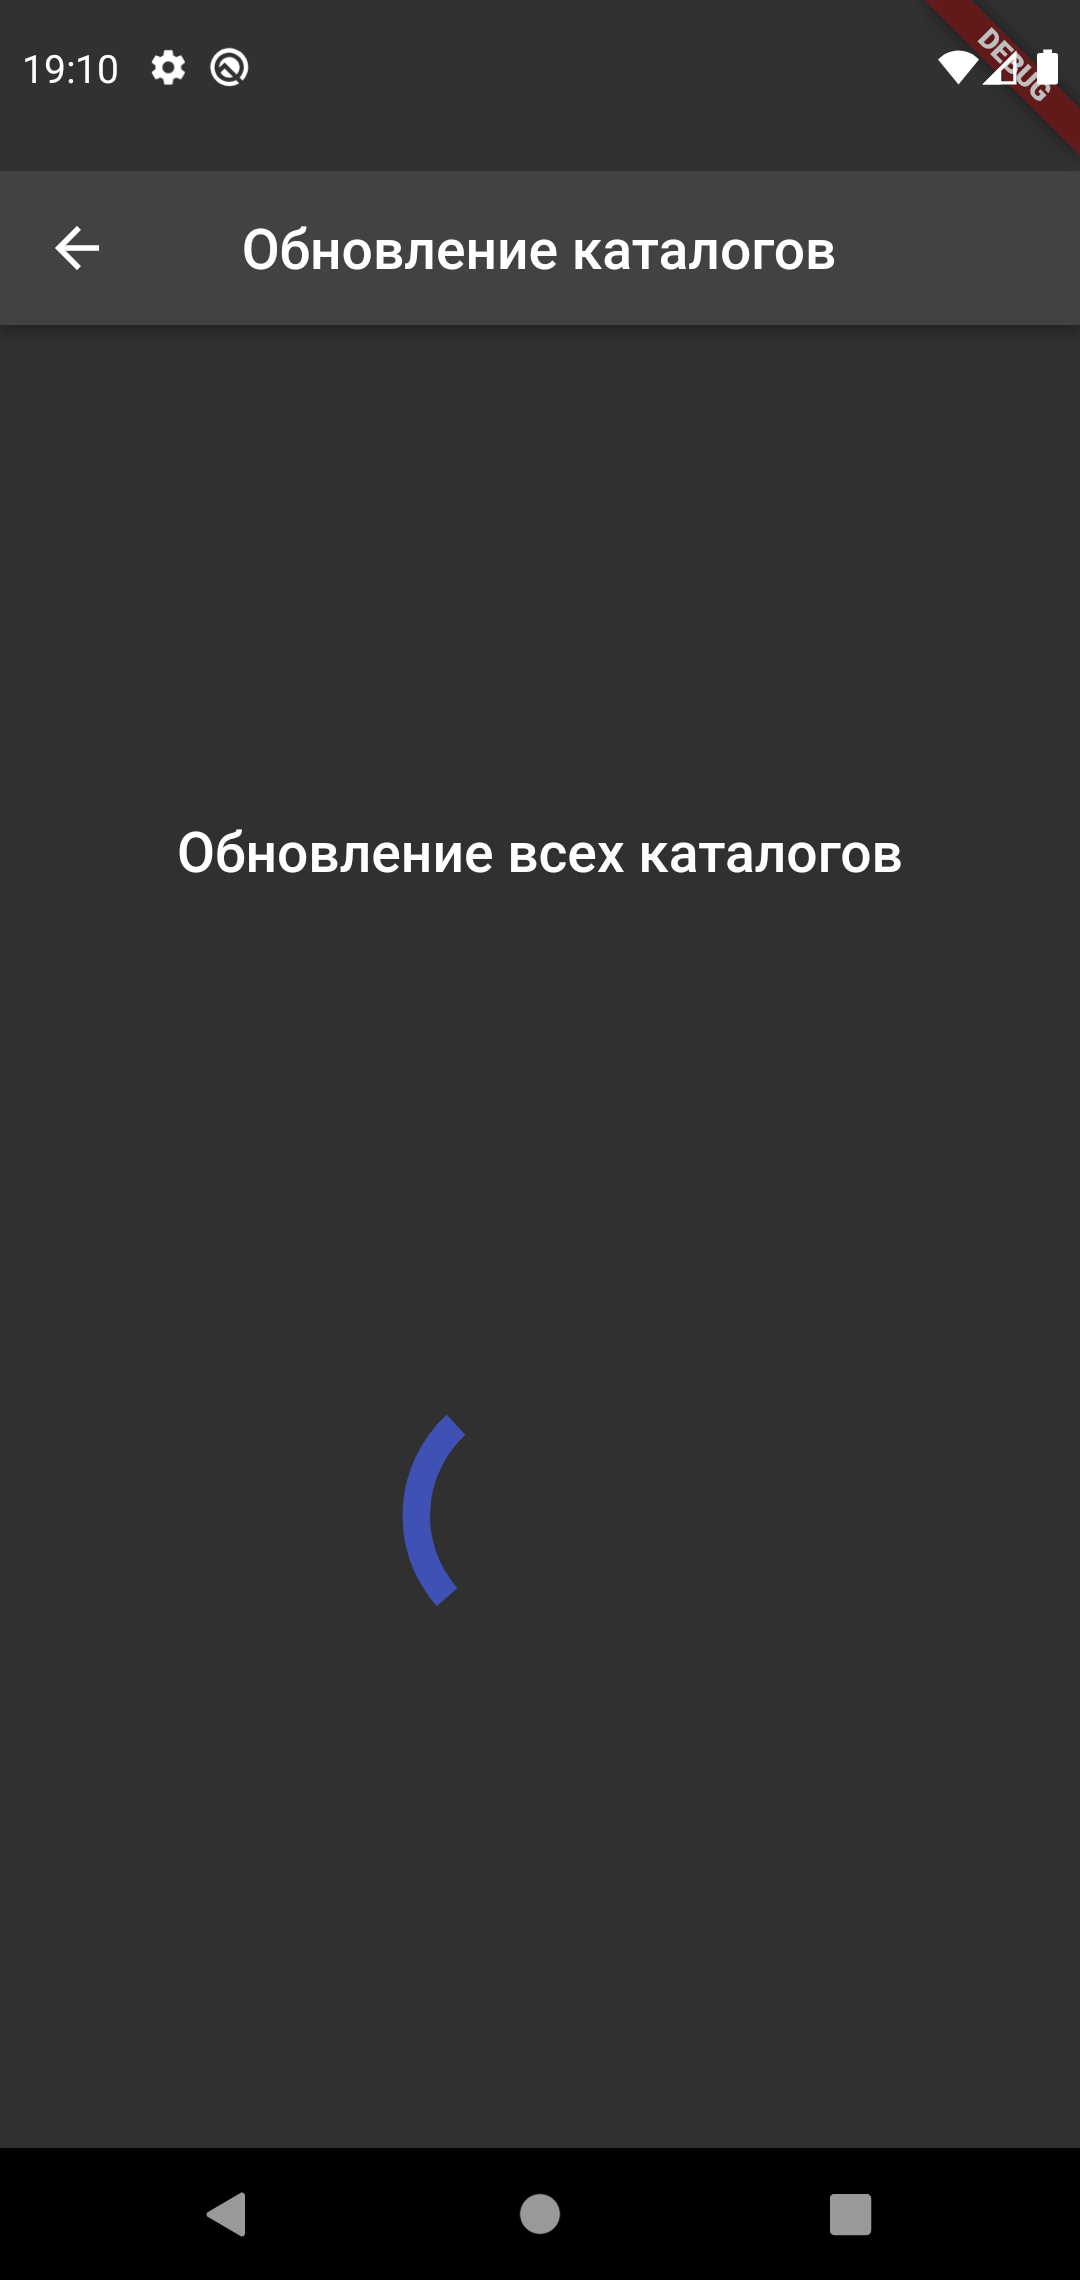
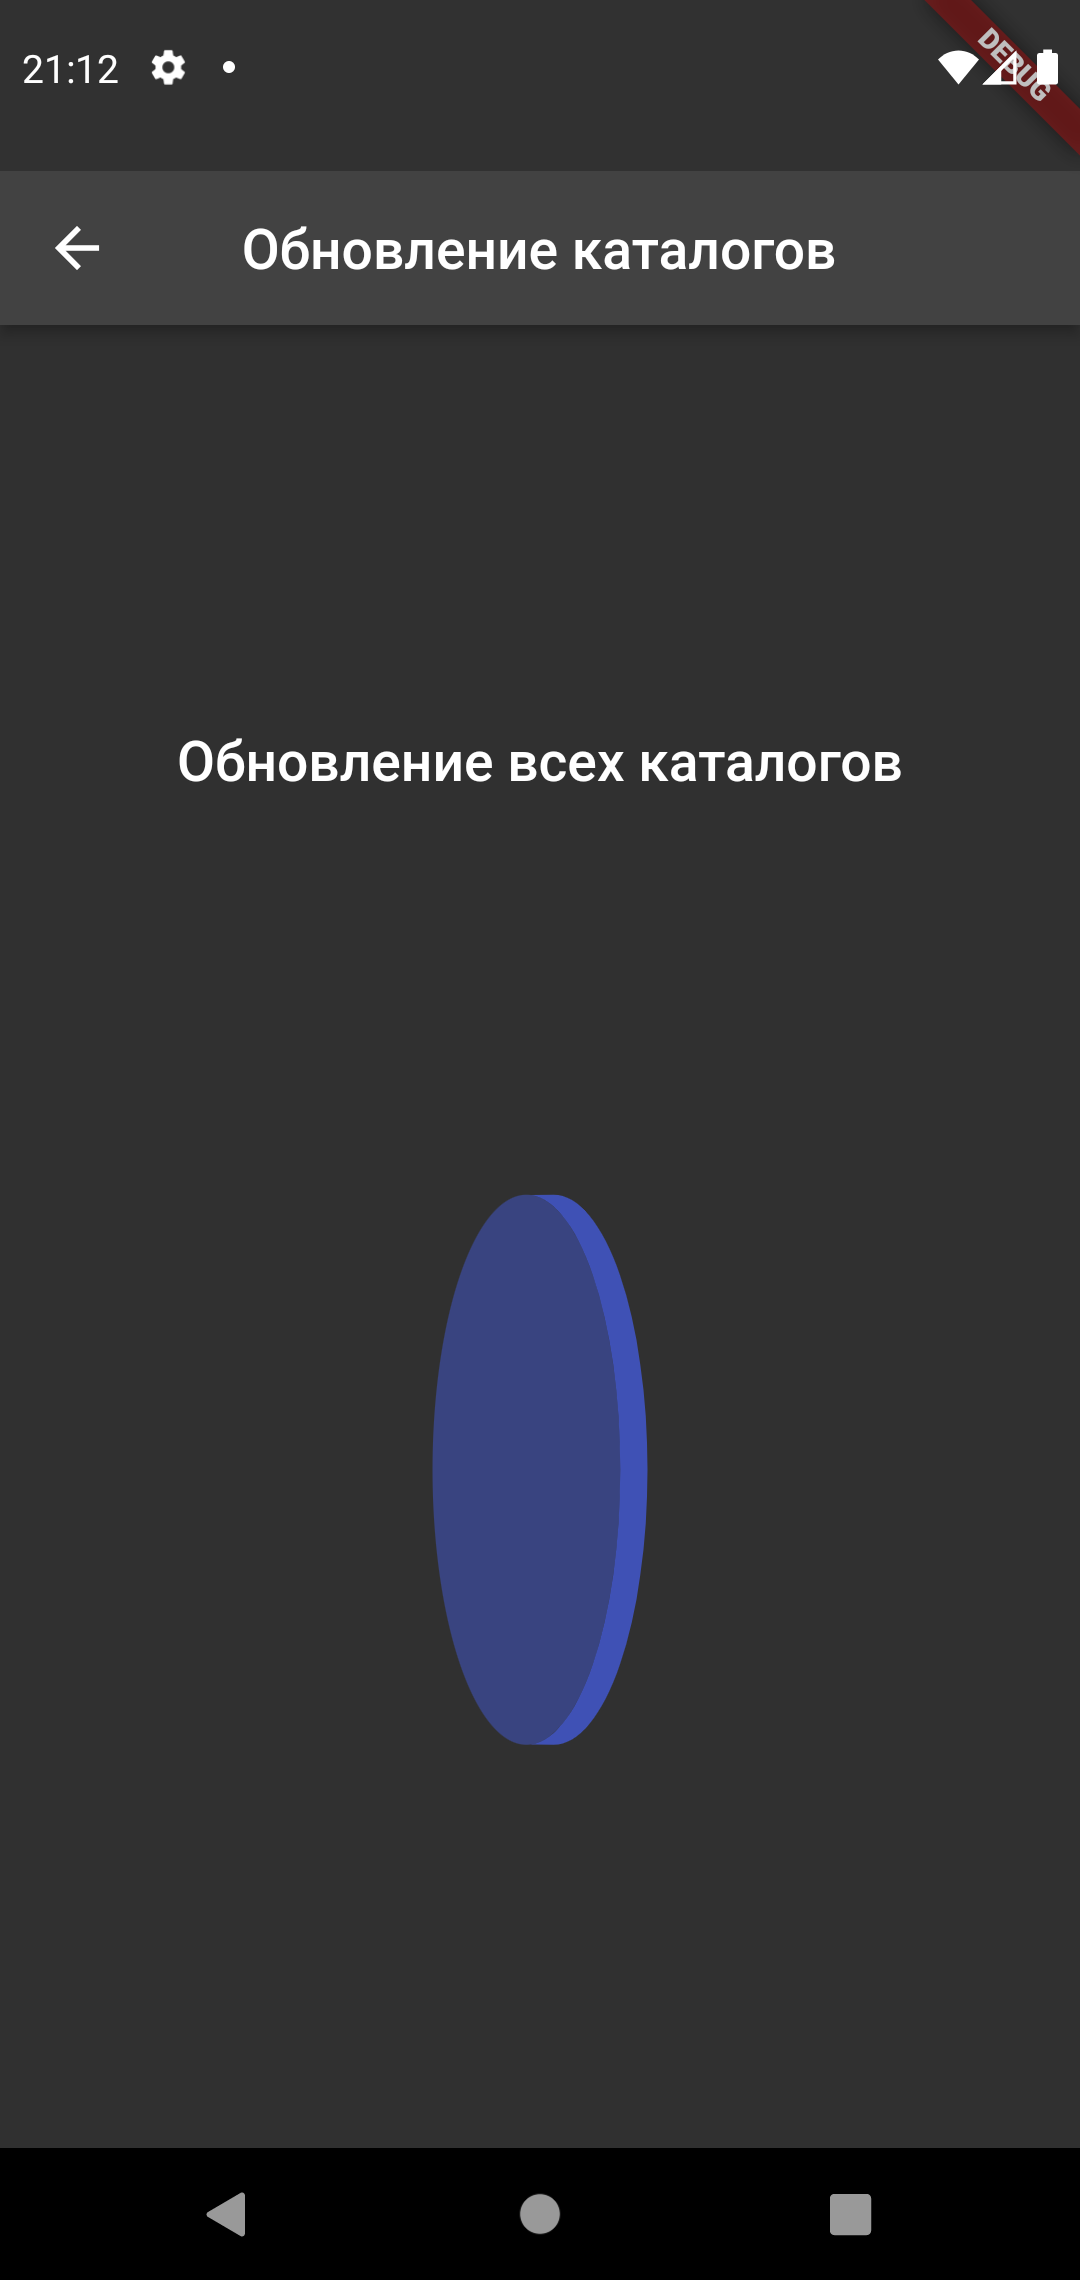
Leonid Korobov, lesson 30, hw 09 (flutter-2022-01) 6 - coin progress

diff --git a/final_project/numismatist/lib/ui/component/coin_progress_indicator.dart b/final_project/numismatist/lib/ui/component/coin_progress_indicator.dart
@@ -1,14 +1,14 @@
 import 'dart:math';
 
 import 'package:flutter/material.dart';
+import 'package:numismatist/ui/style/colors.dart';
 
 // анимация процесса загрузки
 class CoinProgressIndicator extends StatefulWidget {
-  final Color color;
+  final MaterialColor color;
   final double size;
   final double width;
-  const CoinProgressIndicator({Key? key, this.color = Colors.white, this.size = 100, this.width = 10}) : super(key: key);
-
+  const CoinProgressIndicator({Key? key, this.color = primaryColor, this.size = 200, this.width = 15}) : super(key: key);
   @override
   State<StatefulWidget> createState() => _CoinProgressIndicatorState();
 }
@@ -21,7 +21,8 @@ class _CoinProgressIndicatorState extends State<CoinProgressIndicator> with Sing
     super.initState();
     _controller = AnimationController(
       vsync: this,
-      duration: const Duration(milliseconds: 2000),
+      //value: 0.1,
+      duration: const Duration(seconds: 3),
     )..repeat();
   }
 
@@ -33,7 +34,7 @@ class _CoinProgressIndicatorState extends State<CoinProgressIndicator> with Sing
             height: widget.size,
             child: CustomPaint(
               child: childWidget,
-              painter: CircularProgressIndicatorPainter(
+              painter: CoinProgressIndicatorPainter(
                 value: _controller.value,
                 color: widget.color,
                 size: widget.size,
@@ -49,13 +50,13 @@ class _CoinProgressIndicatorState extends State<CoinProgressIndicator> with Sing
   }
 }
 
-class CircularProgressIndicatorPainter extends CustomPainter {
-  final Color color;
+class CoinProgressIndicatorPainter extends CustomPainter {
+  final MaterialColor color;
   final double value;
   final double size;
   final double width;
 
-  CircularProgressIndicatorPainter({
+  CoinProgressIndicatorPainter({
     required this.value,
     required this.color,
     required this.size,
@@ -65,34 +66,51 @@ class CircularProgressIndicatorPainter extends CustomPainter {
   @override
   void paint(Canvas canvas, Size size) {
     final center = Offset(size.width / 2, size.height / 2);
-    final paint = Paint()..color = color;
+    final paintAverse = Paint()..color = color.shade500;
+    final paintGurt = Paint()..color = color.shade900;
     final outterOadius = this.size / 2;
-    final innerRadius = this.size / 2 - width;
 
-    final phaseAngle = (value * 2 * pi);
-    final currentAngle = phaseAngle + (value * 2 * pi); // - pi / 2;
-    final sweepAngle = (value <= 0.5 ? (value * 2 * pi) : ((1 - value) * 2 * pi));
-    final startAngle = currentAngle - sweepAngle / 2;
+    final direction = (value - 0.5).sign;
+    final delta = ((value - 0.5) * 2).abs();
+    final halfdiff = -direction * 0.5 * width * (1 - delta);
 
-    Path path = Path();
-    path.addArc(
-      Rect.fromPoints(Offset(center.dx - outterOadius, center.dy - outterOadius), Offset(center.dx + outterOadius, center.dy + outterOadius)),
-      startAngle,
-      sweepAngle,
+    Path averse = Path();
+    averse.addOval(Rect.fromPoints(
+      Offset(center.dx - delta * outterOadius + halfdiff, center.dy - outterOadius),
+      Offset(center.dx + delta * outterOadius + halfdiff, center.dy + outterOadius),
+    ));
+    averse.close();
+    canvas.drawPath(averse, paintAverse);
+
+    Path gurt = Path();
+    gurt.addArc(
+      Rect.fromPoints(
+        Offset(center.dx - delta * outterOadius + halfdiff, center.dy - outterOadius),
+        Offset(center.dx + delta * outterOadius + halfdiff, center.dy + outterOadius),
+      ),
+      3 * pi / 2,
+      direction * pi,
     );
-    double x = center.dx + innerRadius * cos(startAngle + sweepAngle);
-    double y = center.dy + innerRadius * sin(startAngle + sweepAngle);
-    path.lineTo(x, y);
-    path.addArc(
-      Rect.fromPoints(Offset(center.dx - innerRadius, center.dy - innerRadius), Offset(center.dx + innerRadius, center.dy + innerRadius)),
-      startAngle + sweepAngle,
-      -sweepAngle,
+    gurt.lineTo(center.dx + direction * width * (1 - delta) + halfdiff, center.dy + outterOadius);
+    gurt.addArc(
+      Rect.fromPoints(
+        Offset(center.dx - delta * outterOadius + direction * width * (1 - delta) + halfdiff, center.dy - outterOadius),
+        Offset(center.dx + delta * outterOadius + direction * width * (1 - delta) + halfdiff, center.dy + outterOadius),
+      ),
+      5 * pi / 2,
+      -direction * pi,
     );
-    x = center.dx + outterOadius * cos(startAngle);
-    y = center.dy + outterOadius * sin(startAngle);
-    path.lineTo(x, y);
-    path.close();
-    canvas.drawPath(path, paint);
+    gurt.lineTo(center.dx + halfdiff, center.dy - outterOadius);
+
+    gurt.close();
+    canvas.drawPath(gurt, paintGurt);
+
+    // final ParagraphBuilder paragraphBuilder = ParagraphBuilder(ParagraphStyle(
+    //   textAlign: TextAlign.justify,
+    // ))
+    //   ..addText((halfdiff - 0.5).toStringAsFixed(2));
+    // final Paragraph paragraph = paragraphBuilder.build()..layout(ParagraphConstraints(width: size.width - 12.0 - 12.0));
+    // canvas.drawParagraph(paragraph, Offset(center.dx, center.dy));
   }
 
   @override

diff --git a/final_project/numismatist/lib/ui/sync_page.dart b/final_project/numismatist/lib/ui/sync_page.dart
@@ -2,10 +2,12 @@ import 'package:flutter/material.dart';
 import 'package:flutter_mobx/flutter_mobx.dart';
 import 'package:mobx/mobx.dart';
 import 'package:numismatist/core/error_handler.dart';
-import 'package:numismatist/state/load_process_state.dart';
 import 'package:numismatist/state/catalogs_state.dart';
+import 'package:numismatist/state/load_process_state.dart';
 import 'package:numismatist/ui/component/coin_progress_indicator.dart';
 import 'package:numismatist/ui/component/default_button.dart';
+import 'package:numismatist/ui/style/colors.dart';
+
 import 'package:provider/provider.dart';
 
 class SyncPage extends StatefulWidget {
@@ -55,7 +57,7 @@ class _SyncPageState extends State<SyncPage> with ErrorStatefullHandler {
   Widget buildSearchCatalogs() => Center(
           child: Column(mainAxisAlignment: MainAxisAlignment.spaceEvenly, children: <Widget>[
         Text('Поиск обновлений каталогов', style: Theme.of(context).textTheme.headline6),
-        CoinProgressIndicator(color: Theme.of(context).colorScheme.primary),
+        const CoinProgressIndicator(color: primaryColor),
       ]));
 
   Widget buildNotUpdateRequere(CatalogsState catalogsState) => Center(
@@ -90,7 +92,7 @@ class _SyncPageState extends State<SyncPage> with ErrorStatefullHandler {
           mainAxisAlignment: MainAxisAlignment.spaceEvenly,
           children: <Widget>[
             Text('Обновление ${count > 0 ? count.toString() : "всех"} каталогов', style: Theme.of(context).textTheme.headline6),
-            CoinProgressIndicator(color: Theme.of(context).colorScheme.primary)
+            const CoinProgressIndicator(color: primaryColor),
           ],
         ),
       );

diff --git a/final_project/numismatist/lib/api/client_api.g.dart b/final_project/numismatist/lib/api/client_api.g.dart
@@ -24,7 +24,7 @@ class _RestClient implements RestClient {
     final _result = await _dio.fetch<Map<String, dynamic>>(
         _setStreamType<LastUpdateDto>(
             Options(method: 'GET', headers: _headers, extra: _extra)
-                .compose(_dio.options, 'Catalog/lastupdate',
+                .compose(_dio.options, 'catalog/lastupdate',
                     queryParameters: queryParameters, data: _data)
                 .copyWith(baseUrl: baseUrl ?? _dio.options.baseUrl)));
     final value = LastUpdateDto.fromJson(_result.data!);
@@ -40,7 +40,7 @@ class _RestClient implements RestClient {
     final _result = await _dio.fetch<List<dynamic>>(
         _setStreamType<List<CatalogDto>>(
             Options(method: 'GET', headers: _headers, extra: _extra)
-                .compose(_dio.options, 'Catalog/catalogs',
+                .compose(_dio.options, 'catalog/catalogs',
                     queryParameters: queryParameters, data: _data)
                 .copyWith(baseUrl: baseUrl ?? _dio.options.baseUrl)));
     var value = _result.data!
@@ -58,7 +58,7 @@ class _RestClient implements RestClient {
     final _result = await _dio.fetch<List<dynamic>>(
         _setStreamType<List<ItemDto>>(
             Options(method: 'GET', headers: _headers, extra: _extra)
-                .compose(_dio.options, 'Catalog/catalog/${id}',
+                .compose(_dio.options, 'catalog/catalog/${id}',
                     queryParameters: queryParameters, data: _data)
                 .copyWith(baseUrl: baseUrl ?? _dio.options.baseUrl)));
     var value = _result.data!

diff --git a/final_project/numismatist/lib/api/client_api.dart b/final_project/numismatist/lib/api/client_api.dart
@@ -1,10 +1,9 @@
-import 'dart:io';
-
 import 'package:dio/dio.dart';
 import 'package:numismatist/api/dto/catalog_dto.dart';
 import 'package:numismatist/api/dto/item_dto.dart';
 import 'package:numismatist/api/dto/lastupdate_dto.dart';
 import 'package:numismatist/core/const.dart';
+
 import 'package:retrofit/retrofit.dart';
 
 part 'client_api.g.dart';
@@ -23,12 +22,12 @@ class RestClientBuilder {
 abstract class RestClient {
   factory RestClient(Dio dio, {String baseUrl}) = _RestClient;
 
-  @GET("Catalog/lastupdate")
+  @GET("catalog/lastupdate")
   Future<LastUpdateDto> lastUpdate();
 
-  @GET("Catalog/catalogs")
+  @GET("catalog/catalogs")
   Future<List<CatalogDto>> catalogs();
 
-  @GET("Catalog/catalog/{id}")
+  @GET("catalog/catalog/{id}")
   Future<List<ItemDto>> items(@Path("id") String id);
 }

diff --git a/final_project/numismatist/test/widget_tests/golden_test.dart b/final_project/numismatist/test/widget_tests/golden_test.dart
@@ -18,7 +18,7 @@ void main() {
 
   Widget createSizedWidget() {
     return const Center(
-      child: RepaintBoundary(child: CoinProgressIndicator(size: 200)),
+      child: RepaintBoundary(child: CoinProgressIndicator(size: 150)),
     );
   }
 

diff --git a/final_project/numismatist/test/unit_tests/repository_test.mocks.dart b/final_project/numismatist/test/unit_tests/repository_test.mocks.dart
@@ -1,5 +1,5 @@
 // Mocks generated by Mockito 5.2.0 from annotations
-// in numismatist/test/repository_test.dart.
+// in numismatist/test/unit_tests/repository_test.dart.
 // Do not manually edit this file.
 
 import 'dart:async' as _i4;
